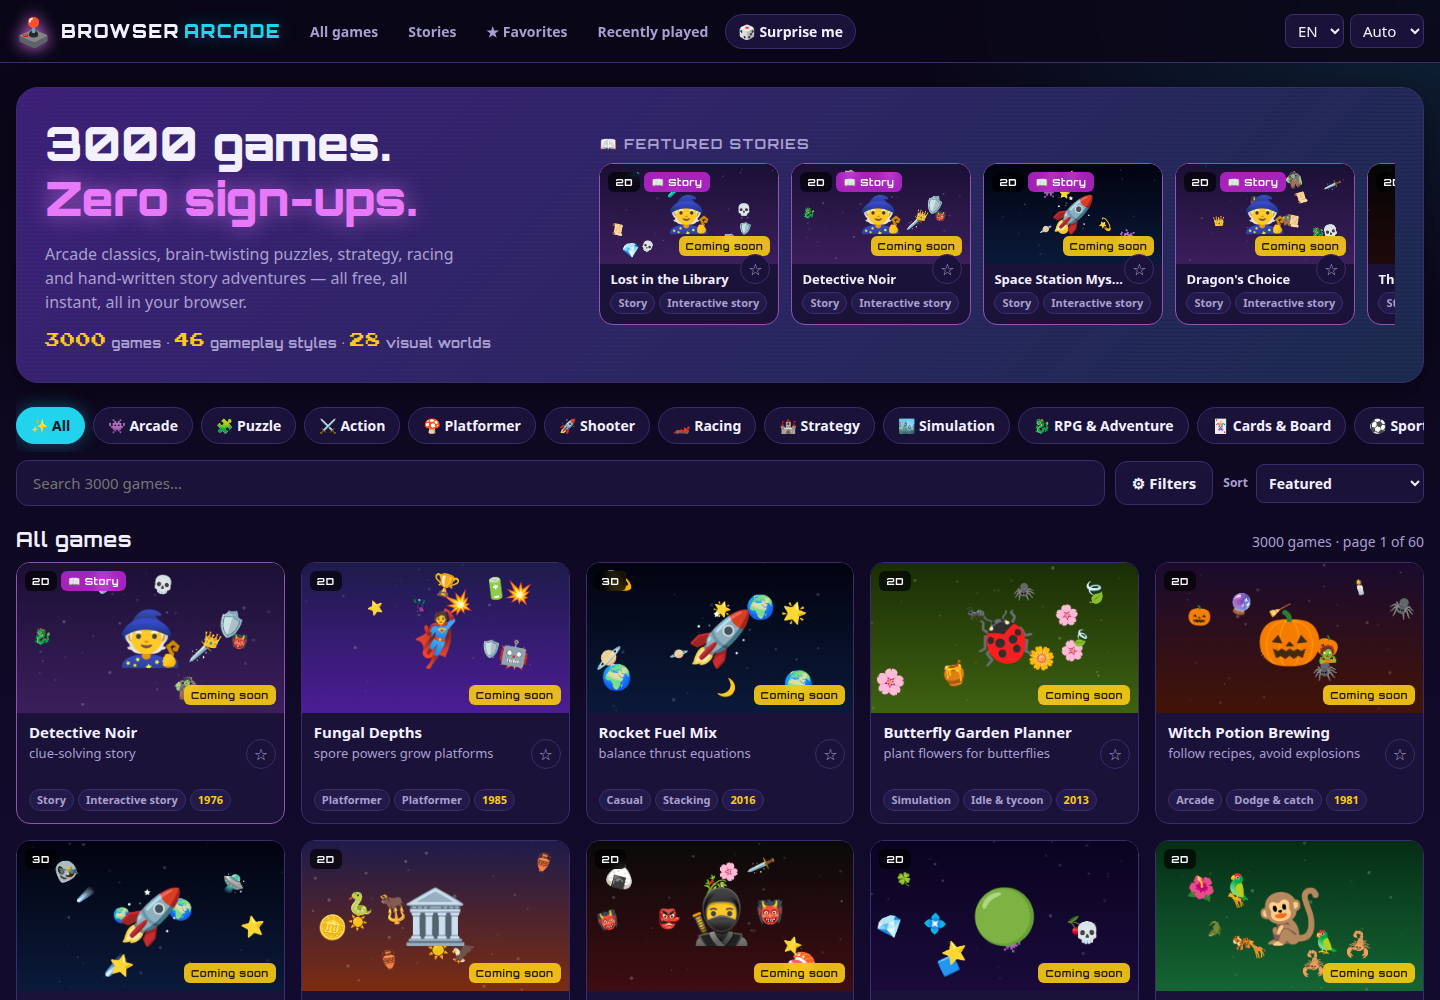
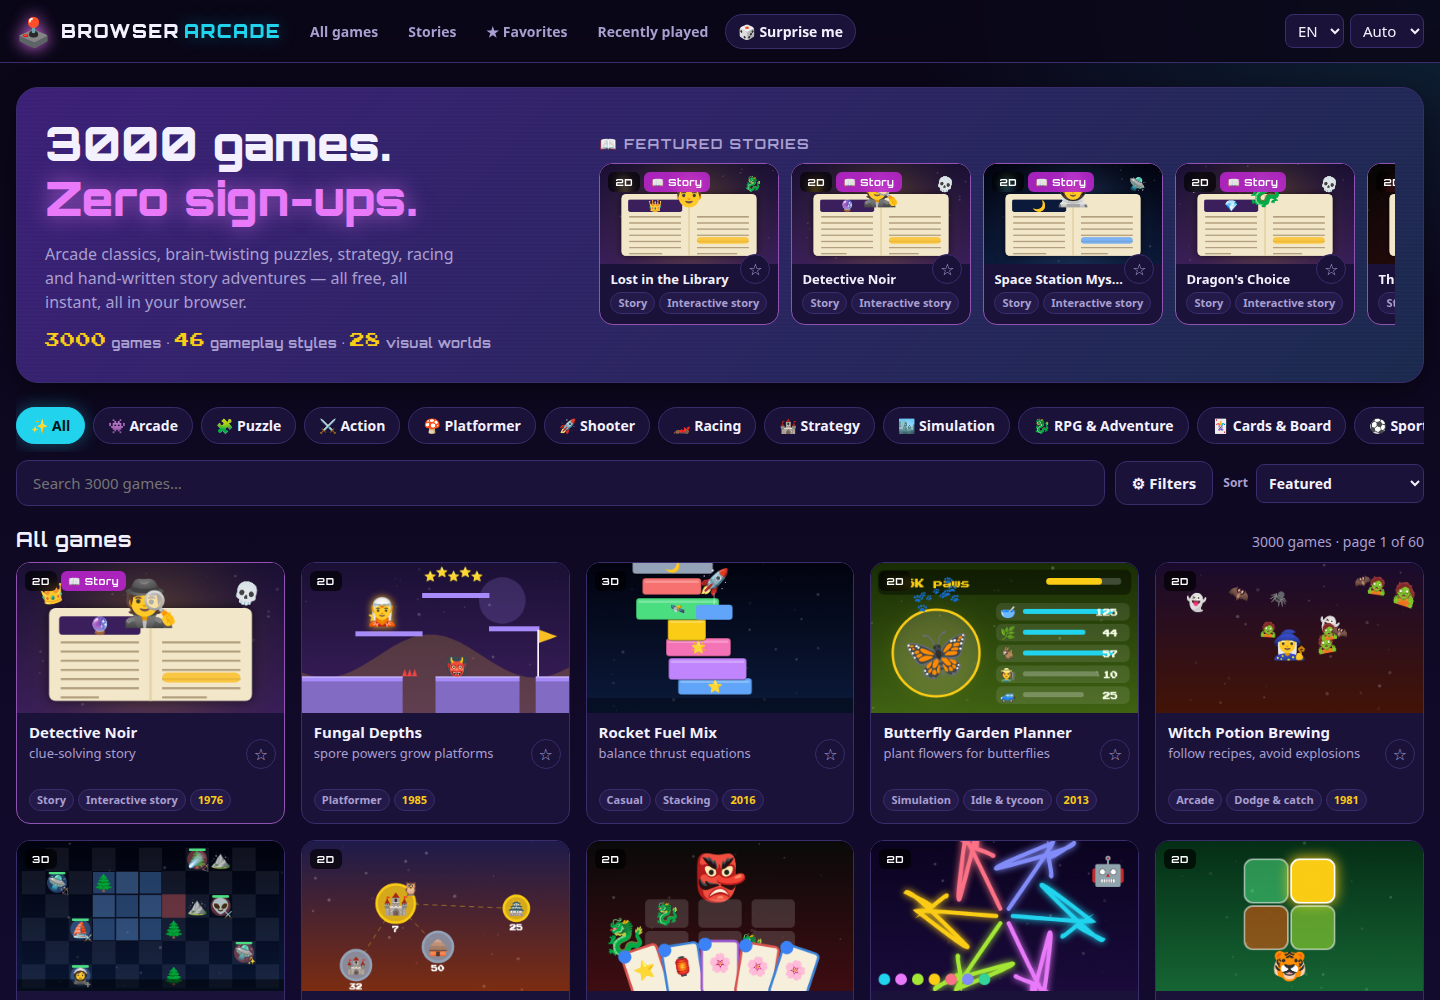
All 3000 games playable: playability test, raycast pointer-lock guard, README engine list, fresh screenshot
Claude-Session: https://claude.ai/code/session_015h8ZyrA5Q2XXhnf3QwPxYa

diff --git a/src/lib/catalog.test.ts b/src/lib/catalog.test.ts
@@ -57,3 +57,13 @@ describe('characters', () => {
     expect(new Set(games.map((g) => g.hero)).size).toBeGreaterThan(80)
   })
 })
+
+describe('playability', () => {
+  it('every catalog game has an implemented engine and a preview', async () => {
+    const { readdirSync } = await import('node:fs')
+    const engines = new Set(readdirSync('src/engines/games').map((f) => f.replace(/\.ts$/, '')))
+    const previews = new Set(readdirSync('src/previews').map((f) => f.replace(/\.ts$/, '')))
+    expect(games.filter((g) => !engines.has(g.engine))).toEqual([])
+    expect(ENGINE_IDS.filter((e) => !previews.has(e))).toEqual([])
+  })
+})

diff --git a/src/engines/games/raycast.ts b/src/engines/games/raycast.ts
@@ -319,7 +319,7 @@ const engine: Engine = {
       if (p.button === 0 && !touch) {
         if (!locked && moved < 6) {
           try {
-            void lockEl.requestPointerLock?.()
+            try { Promise.resolve(lockEl.requestPointerLock?.()).catch(() => {}) } catch { /* pointer lock unavailable (iframe, headless) */ }
           } catch { /* ignore */ }
         }
       }

diff --git a/README.md b/README.md
@@ -17,6 +17,23 @@ A free browser game platform with **3000 games** you can play instantly — arca
 - Keyboard, mouse and touch controls with an on-screen gamepad on phones; local two-player modes.
 - English and Ukrainian interface, dark and light themes, fullscreen play.
 
+## Game engines
+
+46 engines, each with variants picked from the game's own description:
+
+| Group | Engines |
+|---|---|
+| Arcade & action | snake, brick breaker, shoot 'em up / bullet hell, twin-stick & .io arenas, dodge & catch, one-button flyer & lunar lander, reflex & timing, endless runner, platformer (procedural levels), fighting, paddle sports |
+| 3D | three.js flight, raycaster mazes & dungeons, pseudo-3D racing |
+| Puzzle | match-3, sliding & pipe puzzles, memory & spot-the-difference, minesweeper / nonogram / sudoku / akari / binairo, 2048 & merge, Lights Out / Flood-It / lasers, mazes & flow lines, sokoban, falling blocks & polyomino packing, stacking, ball sort, chain reaction, escape rooms |
+| Strategy & sim | tower defense, Galcon-style conquest, turn-based tactics & auto-battler, idle tycoon / farming / trading, Reigns-style decision cards, Oregon-Trail-style journeys, roguelike dungeons |
+| Cards & board | solitaire, blackjack, video poker, deck-builder, lane battler; chess (alpha-beta AI), checkers, reversi, connect four, go, mancala, gomoku… |
+| Words & learning | wordle, crossword, hangman, ciphers, spelling hive, word search, typing shooter, quizzes (math, geography, science, languages, trivia), Lightbot-style programming |
+| Creative & music | drawing with symmetry, falling sand, generative art, pixel art, step sequencer, piano, theremin, procedurally composed rhythm game |
+| Stories | 10 hand-written branching stories (40–60 scenes, 5–7 endings each) |
+
+Every engine works with keyboard, mouse and touch, and adapts to portrait phone screens.
+
 ## How it works
 
 The game list lives in [`data/games.md`](data/games.md): 3000 one-line game designs in 120 collections. `scripts/build-catalog.mjs` parses it into `src/data/raw.json`, and `src/lib/catalog.ts` classifies every entry — from its name, description and build notes — into one of the gameplay **engines** in `src/engines/games/`, a visual **theme** (palette + sprite set), a genre and a set of variant flags (`gravity`, `boss`, `dark`, `versus`, …). Each game runs its engine with its own theme, flags and random seed, so games that share mechanics still look and play differently. Engines are lazy-loaded, so the catalog stays fast.
